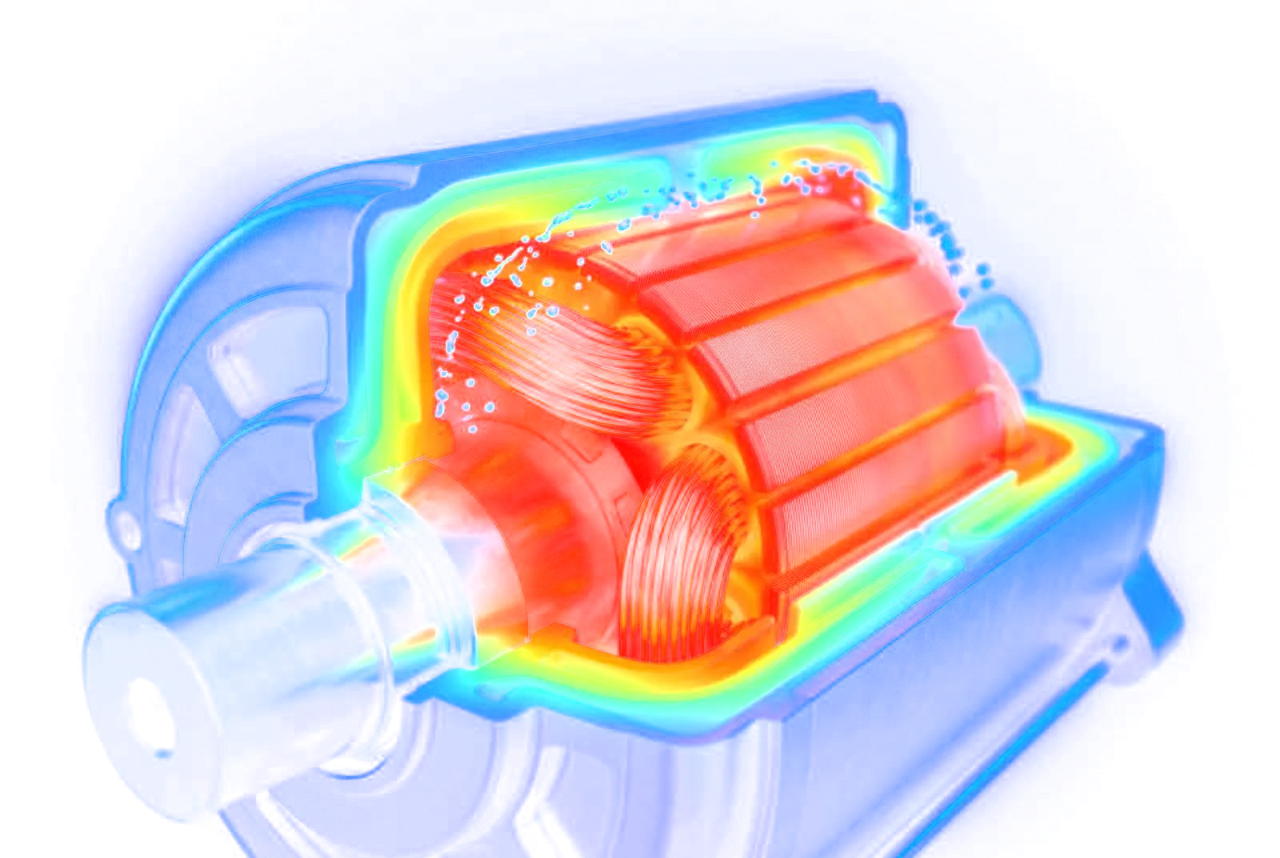
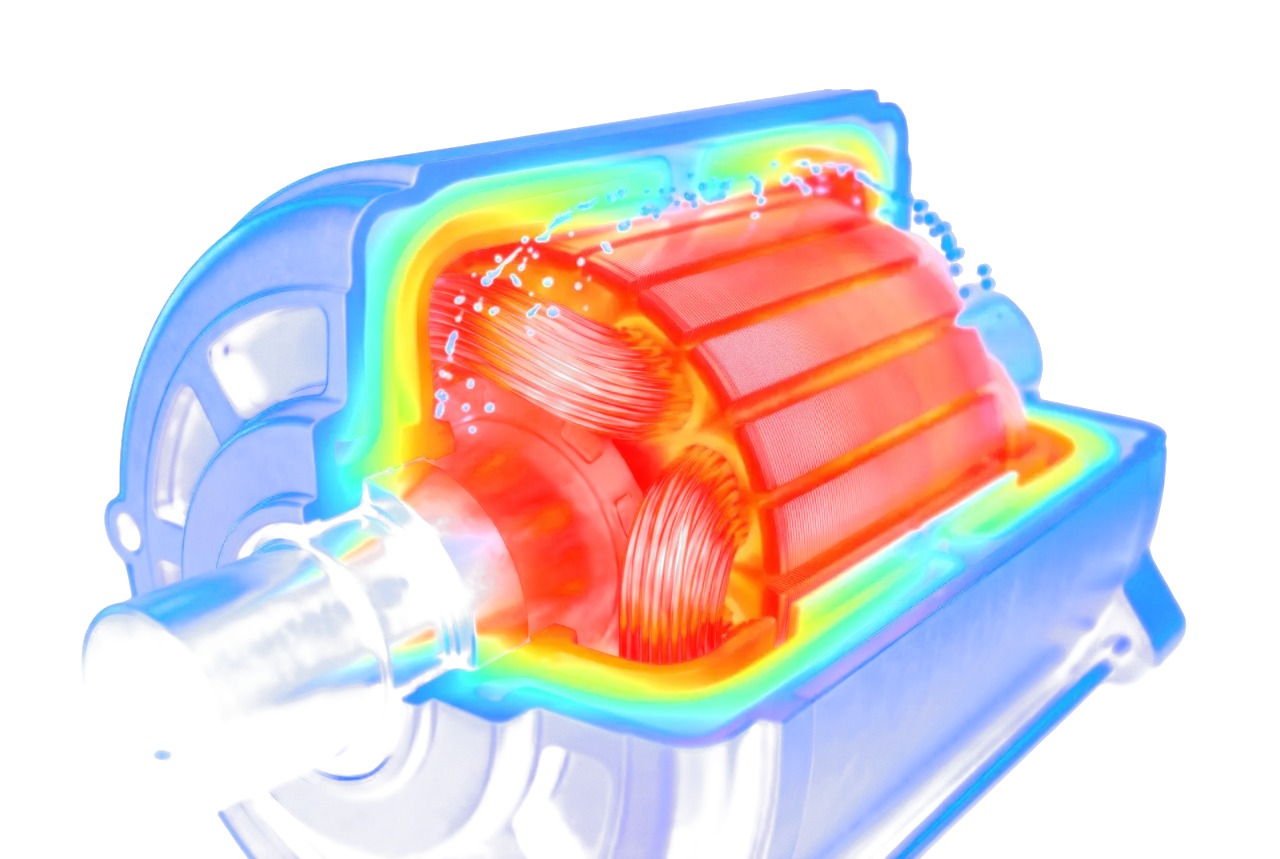
Clean projections (noise-aware keying, new globe), space finale with aurora + ringed planet, masked sheen

diff --git a/index.html b/index.html
@@ -180,10 +180,13 @@
     -webkit-mask-image:radial-gradient(120% 120% at 50% 50%, #000 58%, transparent 92%);
             mask-image:radial-gradient(120% 120% at 50% 50%, #000 58%, transparent 92%); }
   .st-photo img{ width:100%; height:auto; display:block; transform-origin:60% 45%;
-    filter:drop-shadow(0 0 34px rgba(59,130,246,.22));
+    filter:drop-shadow(0 0 14px rgba(95,227,255,.12));
     animation:kenburns 22s ease-in-out infinite alternate,
               holoflicker 8.5s linear infinite; }
-  .st-photo::after{ content:""; position:absolute; inset:-10%;
+  /* the light sweep is masked by the projection itself, so it only ever touches the subject */
+  .st-photo::after{ content:""; position:absolute; inset:0;
+    -webkit-mask-image:var(--img); mask-image:var(--img);
+    -webkit-mask-size:100% 100%; mask-size:100% 100%; -webkit-mask-repeat:no-repeat; mask-repeat:no-repeat;
     background:linear-gradient(112deg, transparent 43%,
       rgba(170,225,255,.16) 50%, rgba(170,225,255,.05) 53%, transparent 60%);
     animation:sheen 6.5s ease-in-out infinite; pointer-events:none; }
@@ -347,9 +350,9 @@
 <script src="lib/gsap.min.js"></script>
 <script src="lib/ScrollTrigger.min.js"></script>
 <script src="lib/lenis.min.js"></script>
-<script src="src/content.js?v=25"></script>
-<script src="src/scenes.js?v=25"></script>
-<script src="src/viz.js?v=25"></script>
-<script src="src/app.js?v=25"></script>
+<script src="src/content.js?v=27"></script>
+<script src="src/scenes.js?v=27"></script>
+<script src="src/viz.js?v=27"></script>
+<script src="src/app.js?v=27"></script>
 </body>
 </html>

diff --git a/src/app.js b/src/app.js
@@ -468,7 +468,7 @@ CV.stations.forEach((st, i) => {
         <div class="st-place"></div>
         <ul class="st-bullets"></ul>
       </div>
-      ${hasImg ? '<div class="st-viz-wrap"><div class="st-photo"><img src="' + st.img + '" alt="" loading="lazy" /></div></div>' : ""}
+      ${hasImg ? '<div class="st-viz-wrap"><div class="st-photo" style="--img:url(' + st.img + ')"><img src="' + st.img + '" alt="" loading="lazy" /></div></div>' : ""}
       ${hasViz ? '<div class="st-viz-wrap"><canvas class="st-viz" width="560" height="340"></canvas></div>' : ""}
     </div>`;
   stage.appendChild(el);

diff --git a/tools/to_projection.py b/tools/to_projection.py
@@ -1,0 +1,40 @@
+"""Turn a black-background render into a floating 'projection' (RGBA WebP).
+
+Black -> transparent, with two guards against the faint "box" that plain
+luminance keying produces:
+  1. noise-aware: isolated near-black specks are dropped unless their
+     neighbourhood also carries light (spatial coherence),
+  2. gentle un-premultiply: dim pixels are brightened at most 3x, not blown to
+     full white, so residual haze can't read as a light rectangle.
+
+usage: python to_projection.py <src.png> <out.webp> [more src out pairs]
+"""
+import sys, numpy as np
+from PIL import Image, ImageFilter
+
+LO, HI = 30, 76          # noise floor / full-opacity point (0-255 max(R,G,B))
+
+def convert(src, out):
+    im = Image.open(src).convert("RGB")
+    im.thumbnail((1280, 1280), Image.LANCZOS)
+    rgb = np.asarray(im).astype(np.float32)
+    m = rgb.max(axis=2)
+    # base alpha: 0 below LO, ramps LO..HI, then follows brightness
+    a = np.where(m <= LO, 0.0, np.where(m < HI, (m - LO) * HI / (HI - LO), m))
+    # spatial coherence: blur the alpha; lonely specks have a dark neighbourhood
+    blur = np.asarray(Image.fromarray(np.clip(a, 0, 255).astype(np.uint8)).filter(ImageFilter.BoxBlur(5))).astype(np.float32)
+    coh = np.clip((blur - 6.0) / 34.0, 0.0, 1.0)
+    strong = np.clip((a - 60.0) / 40.0, 0.0, 1.0)          # bright pixels keep themselves
+    a = a * (strong + (1.0 - strong) * coh)
+    # colour: un-premultiply, capped
+    scale = np.where(m > 0, np.minimum(255.0 / np.maximum(m, 1.0), 3.0), 0.0)
+    col = np.clip(rgb * scale[..., None], 0, 255)
+    rgba = np.dstack([col, np.clip(a, 0, 255)]).astype(np.uint8)
+    rgba[a <= 0.5] = 0
+    Image.fromarray(rgba, "RGBA").save(out, "WEBP", quality=72, method=6)
+    return rgba.shape[1], rgba.shape[0]
+
+if __name__ == "__main__":
+    args = sys.argv[1:]
+    for s, o in zip(args[::2], args[1::2]):
+        print(o, convert(s, o))
